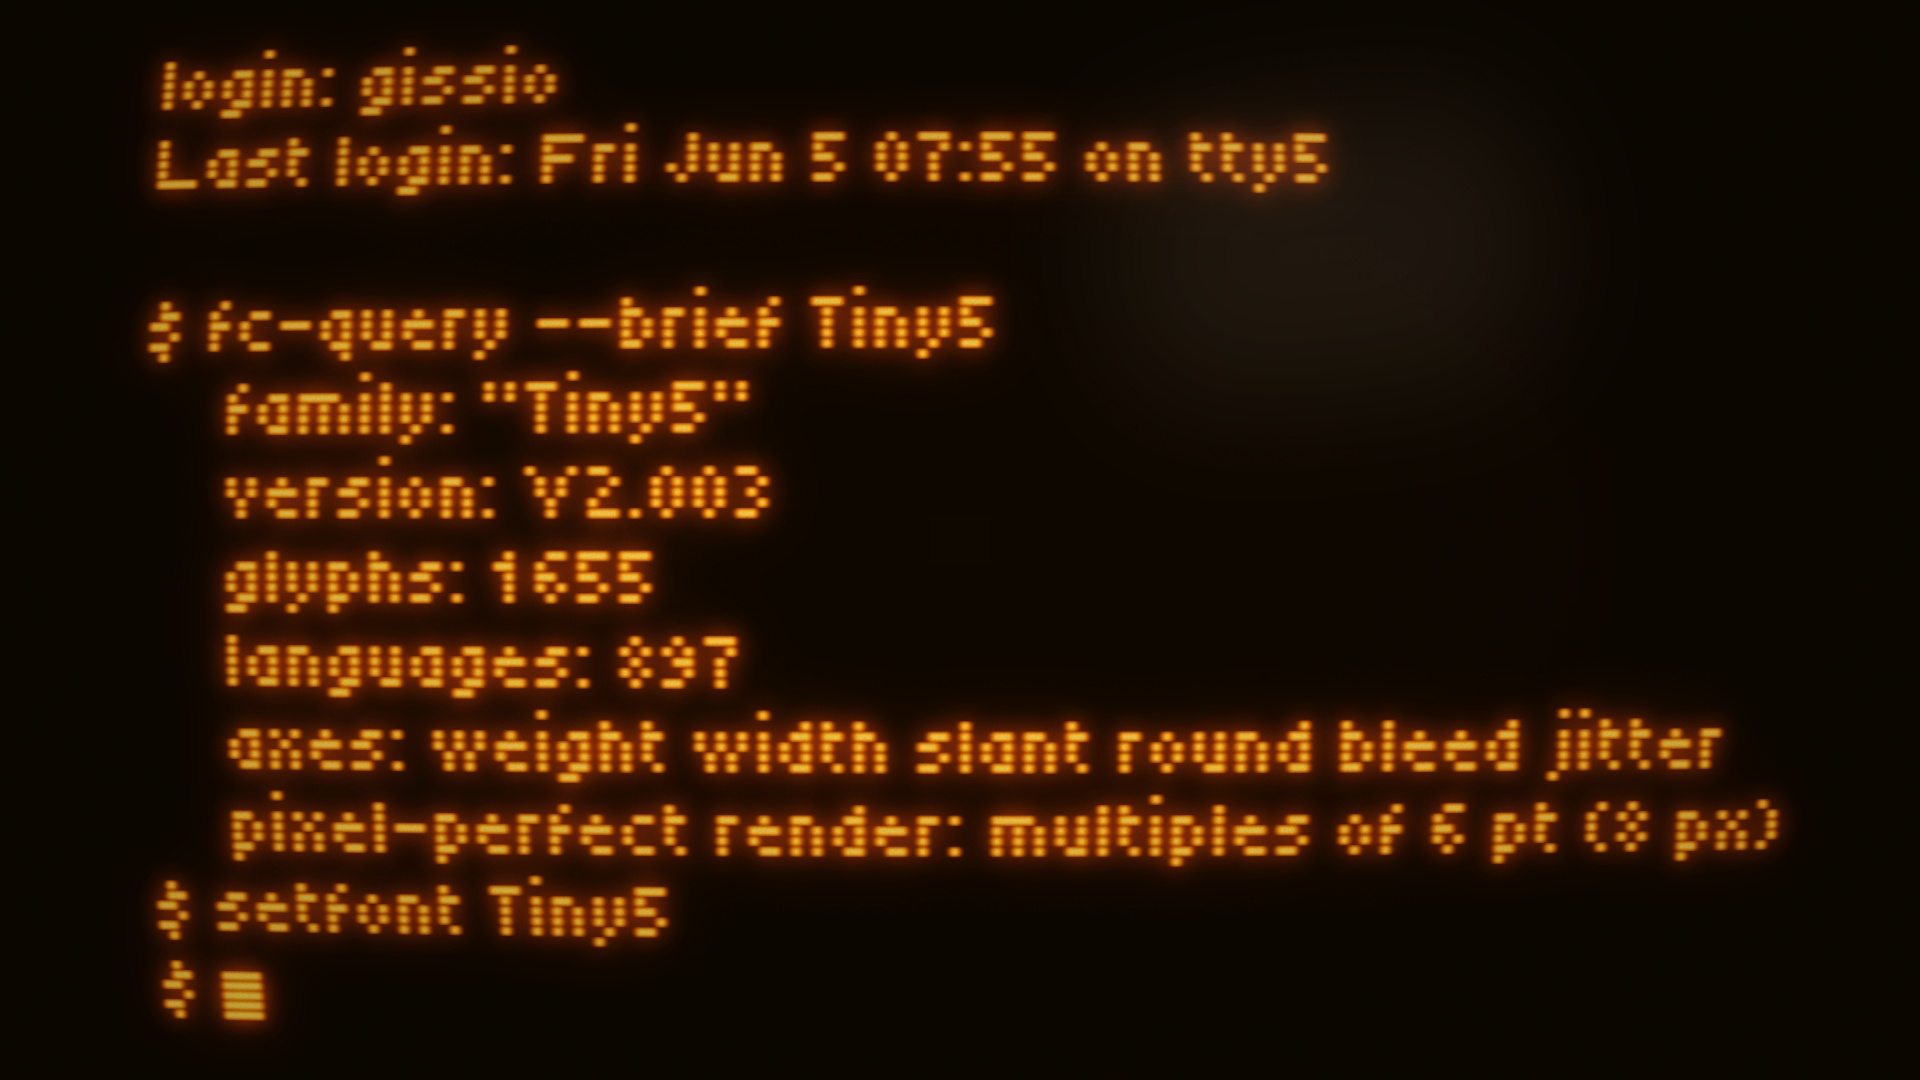
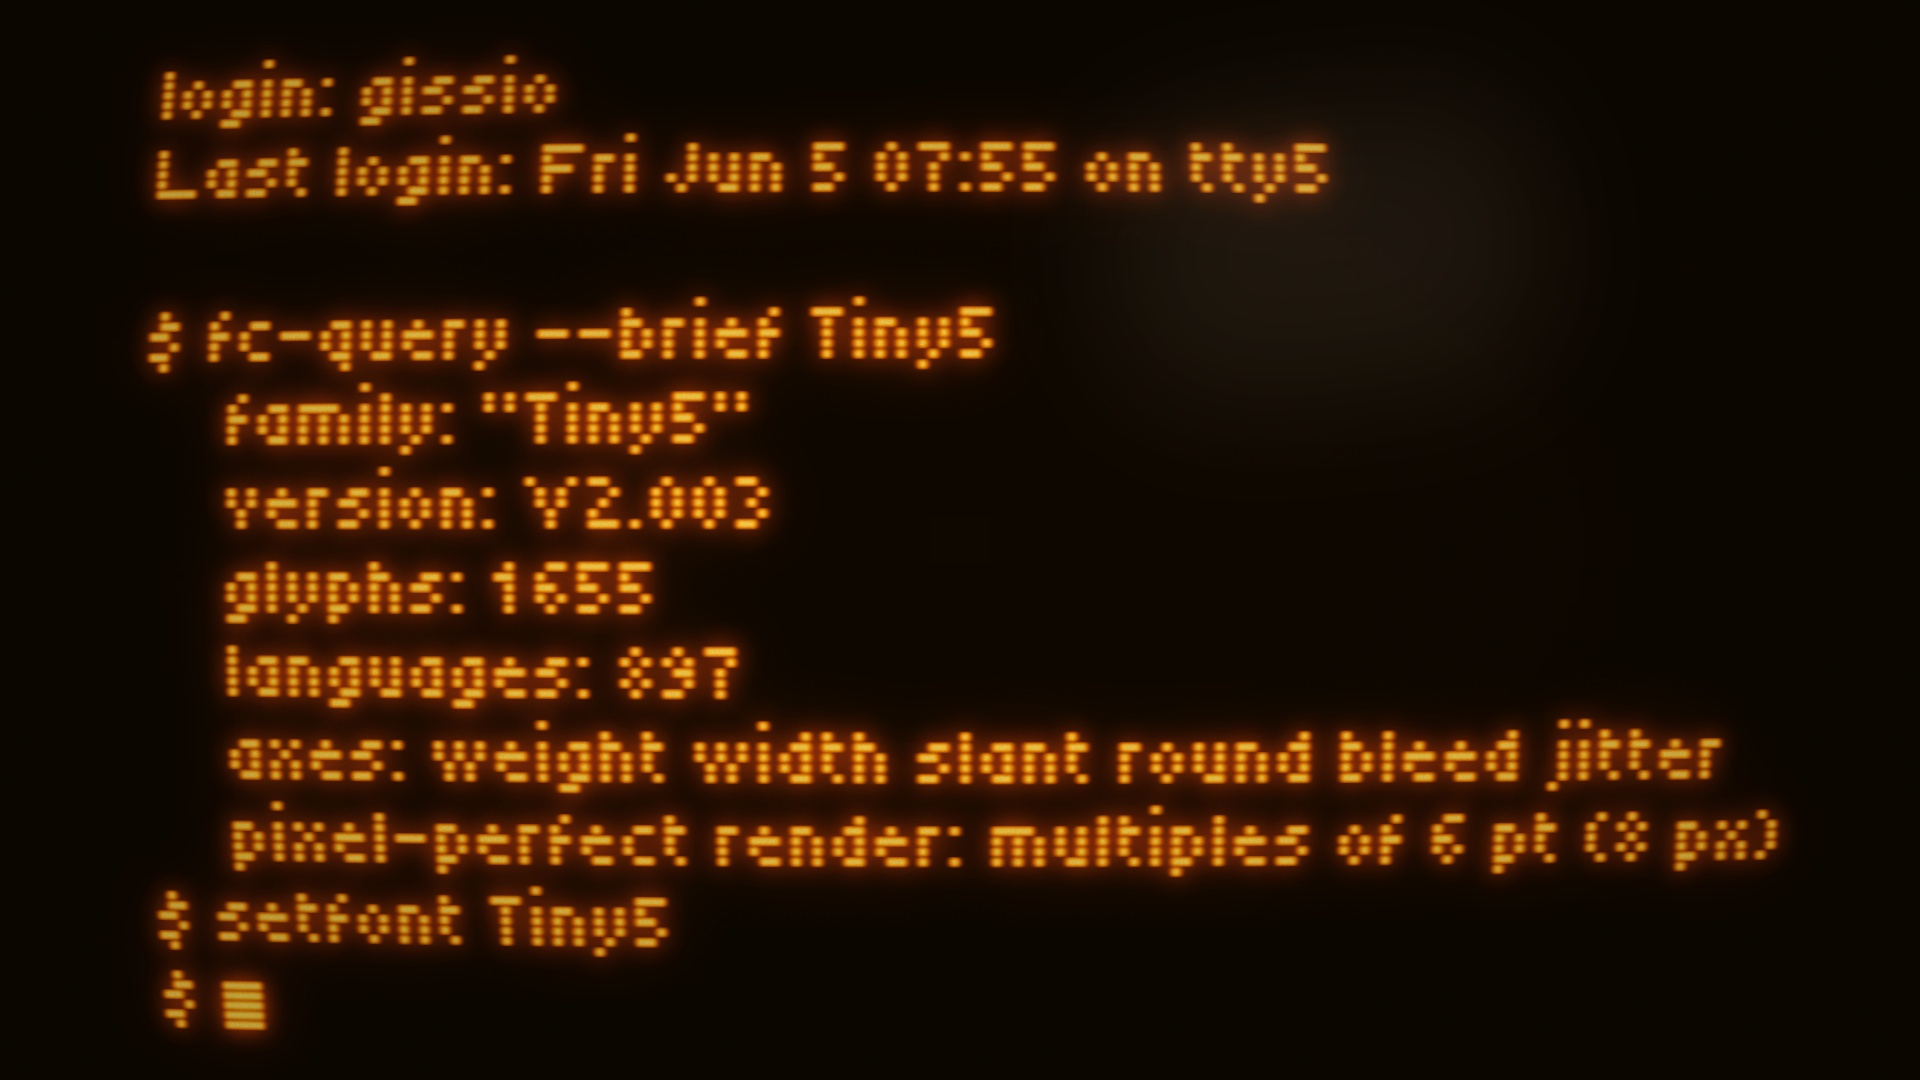
Specimen update

Changed region(s): [[0.0625, 0.2444, 0.9375, 0.9778], [0.0625, 0.0306, 0.6875, 0.2139]]

diff --git a/documentation/build-specimen.py b/documentation/build-specimen.py
@@ -53,7 +53,7 @@ def get_font(scale, duo=False, axes=None, italic=False):
 
 def get_baseline(line_height, cap_height):
     """Return the baseline offset that centers capital letters within a line."""
-    return (line_height - cap_height) // 2 + cap_height
+    return (line_height - cap_height  + 1) // 2 + cap_height
 
 
 # --- The cell grid ----------------------------------------------------------
